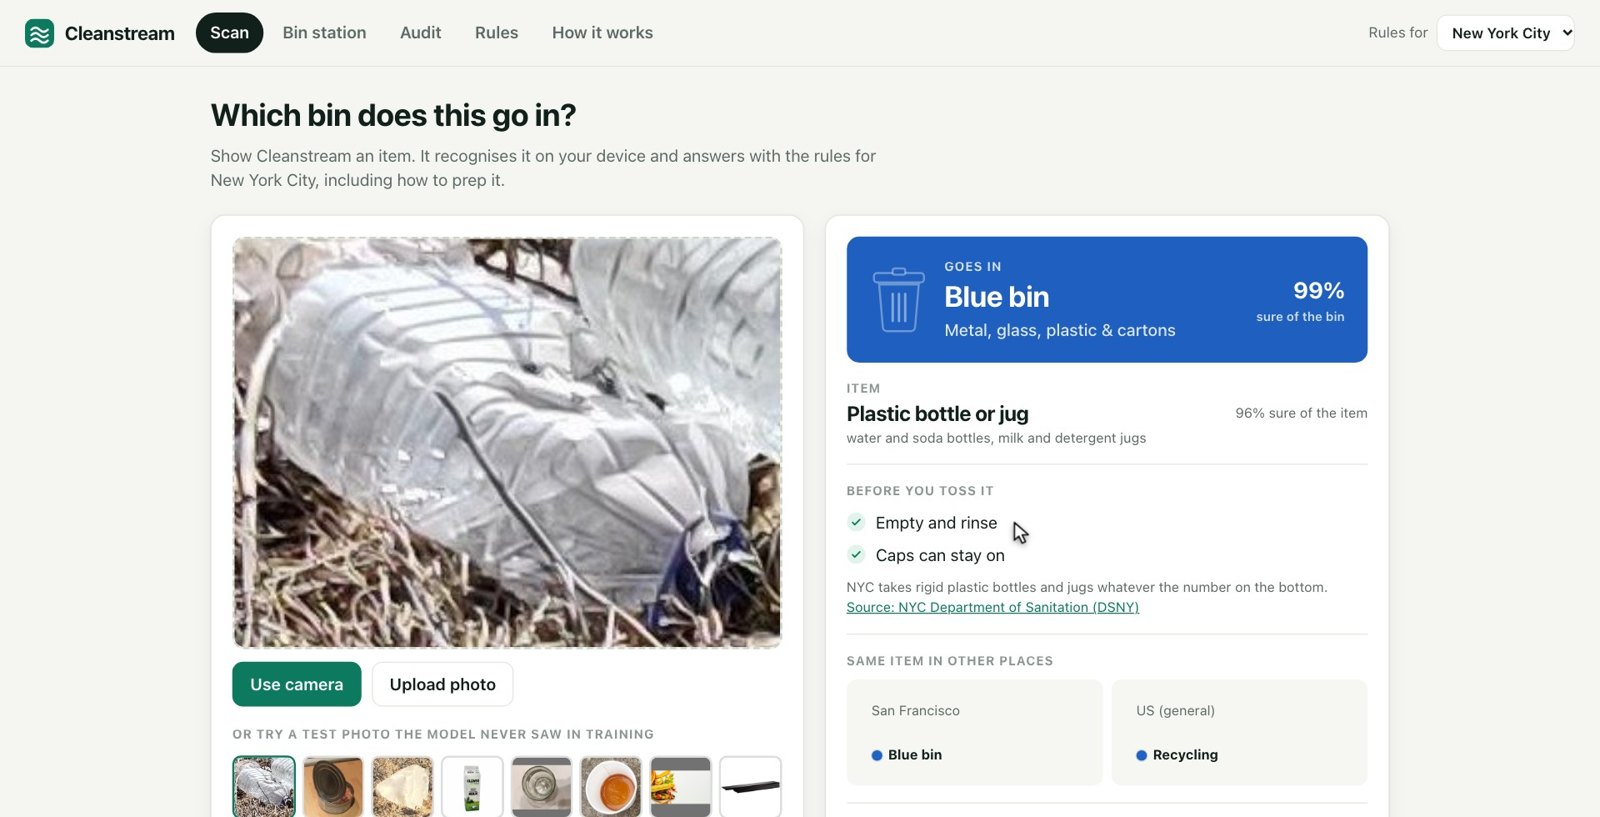
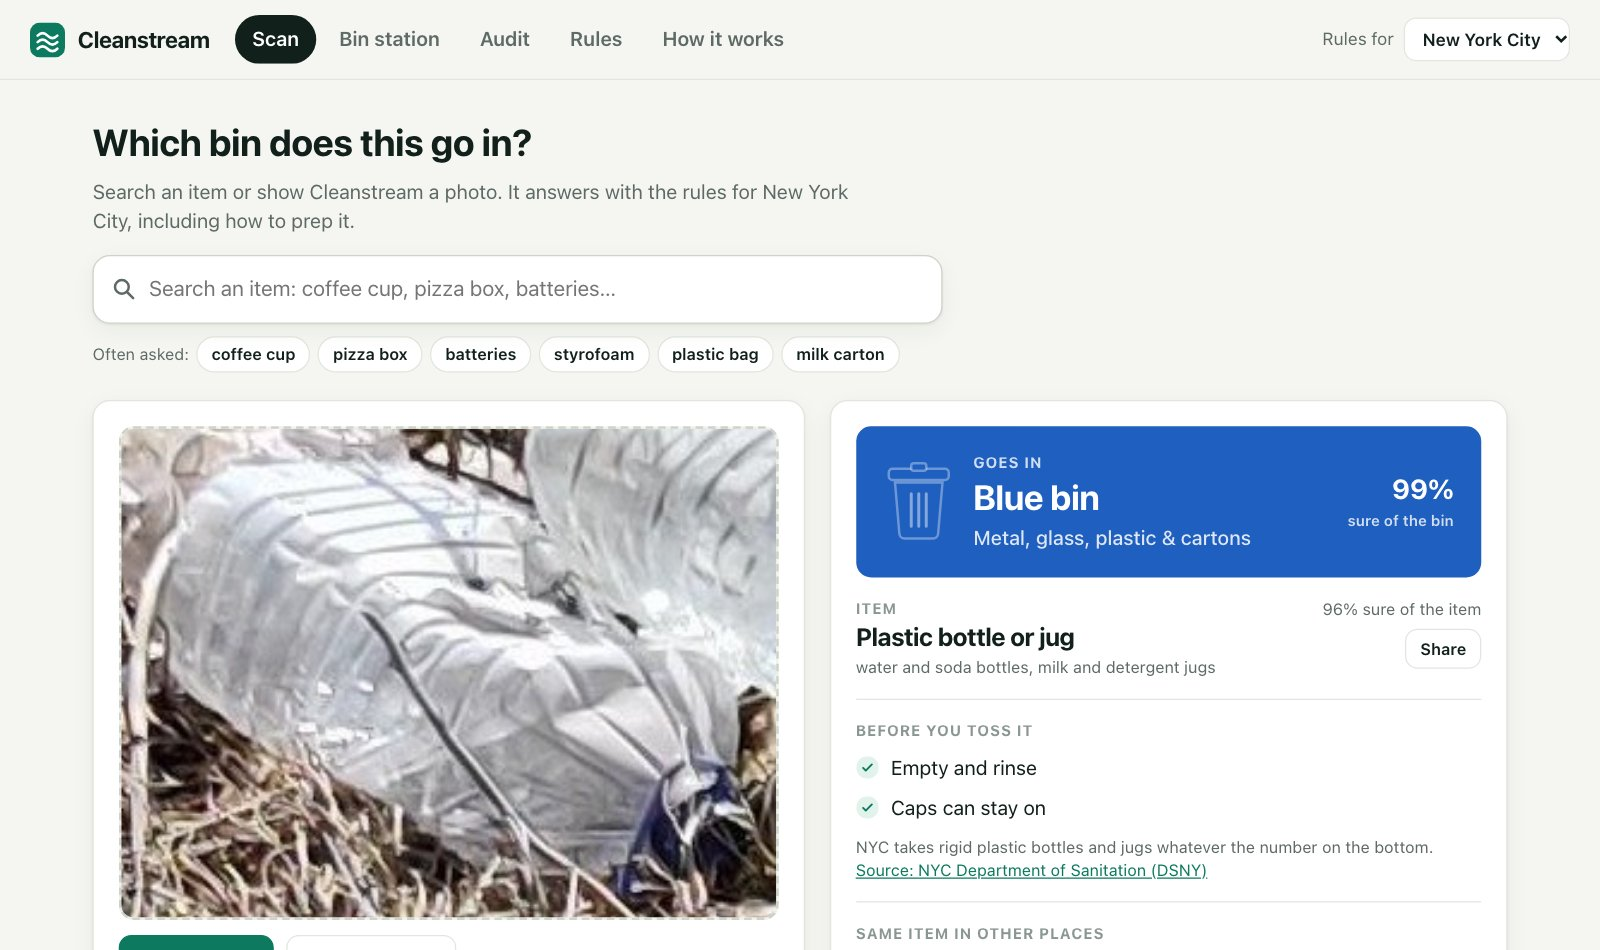
Search suggestions open under the field; compact phone header; new README screenshots and link preview

diff --git a/web/src/ui.tsx b/web/src/ui.tsx
@@ -155,40 +155,42 @@ export function ItemSearch({ pack, onPick, popular = [] }: { pack: Pack; onPick:
 
   return (
     <div className="isearch">
-      <div className="search-box">
-        <svg viewBox="0 0 20 20" aria-hidden><circle cx="8.5" cy="8.5" r="5.5" fill="none" stroke="currentColor" strokeWidth="2" /><path d="M13 13l4.5 4.5" stroke="currentColor" strokeWidth="2" strokeLinecap="round" /></svg>
-        <input
-          type="search" value={q} placeholder="Search an item: coffee cup, pizza box, batteries…" aria-label="Search an item"
-          role="combobox" aria-expanded={showList} aria-controls="search-list" aria-autocomplete="list" autoComplete="off"
-          onChange={(e) => (setQ(e.target.value), setOpen(true), setActive(0))}
-          onFocus={() => setOpen(true)}
-          onBlur={() => setTimeout(() => setOpen(false), 120)}
-          onKeyDown={(e) => {
-            if (e.key === 'ArrowDown') (e.preventDefault(), setActive((a) => Math.min(a + 1, hits.length - 1)))
-            else if (e.key === 'ArrowUp') (e.preventDefault(), setActive((a) => Math.max(a - 1, 0)))
-            else if (e.key === 'Enter' && hits[active]) (e.preventDefault(), pick(hits[active]))
-            else if (e.key === 'Escape') setOpen(false)
-          }}
-        />
-      </div>
-      {showList && (
-        <div className="search-list card" id="search-list" role="listbox">
-          {hits.length ? hits.map((id, k) => {
-            const bin = binById(pack, pack.items[id].bin)
-            return (
-              <button key={id} role="option" aria-selected={k === active} className={k === active ? 'on' : ''}
-                onMouseDown={(e) => e.preventDefault()} onMouseEnter={() => setActive(k)} onClick={() => pick(id)}>
-                <span><strong>{itemName(id)}</strong><span className="small muted">{ITEMS[id].examples}</span></span>
-                <span className="chip" style={{ background: bin.color, color: bin.ink }}>{bin.name}</span>
-              </button>
-            )
-          }) : (
-            <div className="small muted" style={{ padding: '12px 14px' }}>
-              Nothing matches “{q.trim()}”. Try a simpler word, or show it with a photo. When in doubt, keep it out of recycling.
-            </div>
-          )}
+      <div className="isearch-field">
+        <div className="search-box">
+          <svg viewBox="0 0 20 20" aria-hidden><circle cx="8.5" cy="8.5" r="5.5" fill="none" stroke="currentColor" strokeWidth="2" /><path d="M13 13l4.5 4.5" stroke="currentColor" strokeWidth="2" strokeLinecap="round" /></svg>
+          <input
+            type="search" value={q} placeholder="Search an item: coffee cup, pizza box, batteries…" aria-label="Search an item"
+            role="combobox" aria-expanded={showList} aria-controls="search-list" aria-autocomplete="list" autoComplete="off"
+            onChange={(e) => (setQ(e.target.value), setOpen(true), setActive(0))}
+            onFocus={() => setOpen(true)}
+            onBlur={() => setTimeout(() => setOpen(false), 120)}
+            onKeyDown={(e) => {
+              if (e.key === 'ArrowDown') (e.preventDefault(), setActive((a) => Math.min(a + 1, hits.length - 1)))
+              else if (e.key === 'ArrowUp') (e.preventDefault(), setActive((a) => Math.max(a - 1, 0)))
+              else if (e.key === 'Enter' && hits[active]) (e.preventDefault(), pick(hits[active]))
+              else if (e.key === 'Escape') setOpen(false)
+            }}
+          />
         </div>
-      )}
+        {showList && (
+          <div className="search-list card" id="search-list" role="listbox">
+            {hits.length ? hits.map((id, k) => {
+              const bin = binById(pack, pack.items[id].bin)
+              return (
+                <button key={id} role="option" aria-selected={k === active} className={k === active ? 'on' : ''}
+                  onMouseDown={(e) => e.preventDefault()} onMouseEnter={() => setActive(k)} onClick={() => pick(id)}>
+                  <span><strong>{itemName(id)}</strong><span className="small muted">{ITEMS[id].examples}</span></span>
+                  <span className="chip" style={{ background: bin.color, color: bin.ink }}>{bin.name}</span>
+                </button>
+              )
+            }) : (
+              <div className="small muted" style={{ padding: '12px 14px' }}>
+                Nothing matches “{q.trim()}”. Try a simpler word, or show it with a photo. When in doubt, keep it out of recycling.
+              </div>
+            )}
+          </div>
+        )}
+      </div>
       {popular.length > 0 && (
         <div className="row small" style={{ gap: 6, marginTop: 10 }}>
           <span className="muted">Often asked:</span>

diff --git a/web/src/index.css b/web/src/index.css
@@ -241,7 +241,8 @@ table.list tr.click:hover td { background: #f8f9f6; }
 }
 
 /* item search */
-.isearch { position: relative; margin-top: 16px; }
+.isearch { margin-top: 16px; }
+.isearch-field { position: relative; }
 .search-box { display: flex; align-items: center; gap: 10px; background: var(--card); border: 1.5px solid #cdd3c8; border-radius: 14px; padding: 0 14px; box-shadow: var(--shadow); }
 .search-box:focus-within { border-color: var(--accent); box-shadow: 0 0 0 3px var(--accent-soft); }
 .search-box svg { width: 20px; height: 20px; flex: none; color: var(--muted); }
@@ -253,3 +254,4 @@ table.list tr.click:hover td { background: #f8f9f6; }
 .tag { border: 1px solid var(--line); background: var(--card); border-radius: 999px; padding: 4px 11px; font: inherit; font-size: 13px; font-weight: 600; color: var(--ink); cursor: pointer; }
 .tag:hover { border-color: var(--accent); color: var(--accent); }
 .pick .filter { width: 100%; border: 1px solid var(--line); border-radius: 10px; padding: 9px 11px; font: inherit; margin-bottom: 12px; }
+@media (max-width: 560px) { .loadbar { display: none; } .lede h1 { font-size: 26px; } }

diff --git a/README.md b/README.md
@@ -4,7 +4,7 @@
 
 Live app: https://yy5652-hash.github.io/cleanstream/ (runs in your browser; photos never leave your device)
 
-![Scan: a plastic bottle goes in New York's blue bin](docs/scan.jpg)
+<p><img src="docs/scan.jpg" width="67%" alt="Scan: a plastic bottle goes in New York's blue bin"> <img src="docs/search.jpg" width="31%" alt="Search on a phone: tin foil goes in the blue bin"></p>
 
 Cleanstream is a web app for the moment someone stands in front of three bins holding a coffee cup. Show it the item and a
 model running in the browser recognises it, then answers with the local rules: which bin, how to prep it, why, and a
